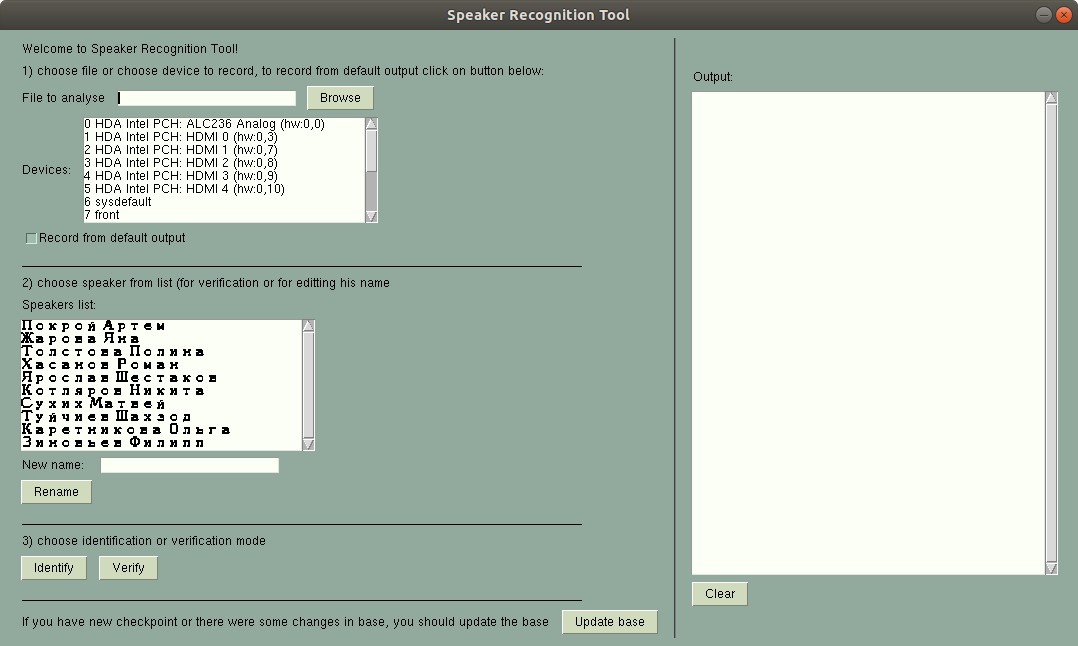
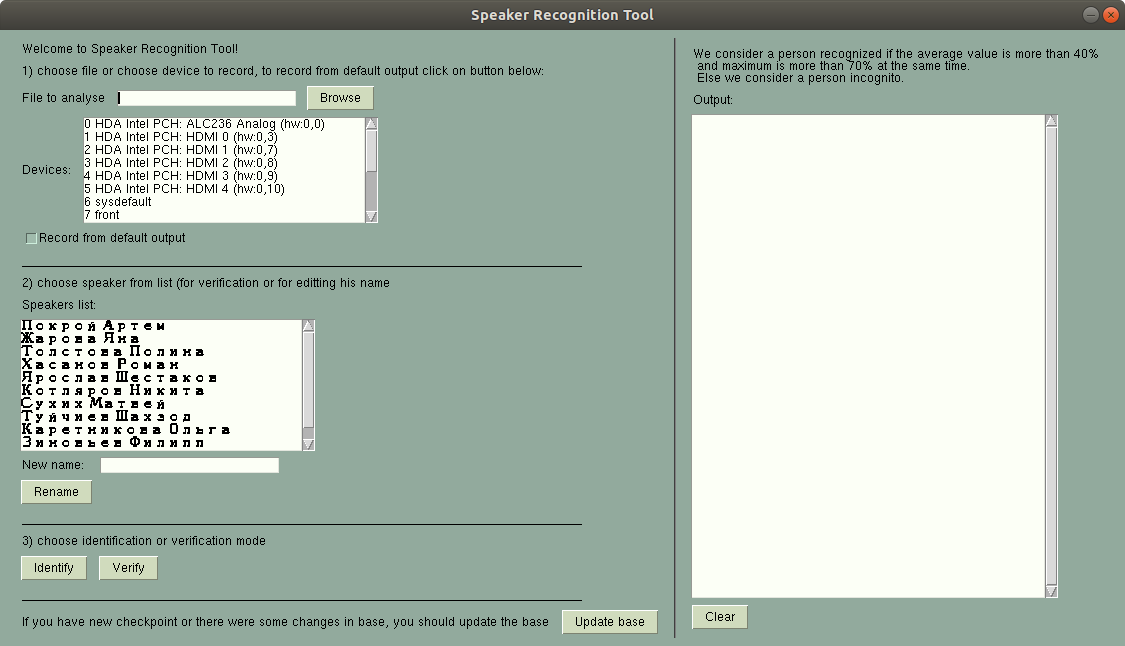
GUI

diff --git a/gui.py b/gui.py
@@ -50,6 +50,7 @@ file_list_column = [
 ]
 
 result_viewer_column = [
+    [sg.Text('We consider a person recognized if the average value is more than 40% \n and maximum is more than 70% at the same time. \n Else we consider a person incognito.')],
     [sg.Text("Output:")],
     [sg.Multiline(size=(50, 40), key="-OUTPUT-")],
     [sg.Button("Clear", key="-CLEAR-")],
@@ -69,6 +70,7 @@ window = sg.Window("Speaker Recognition Tool", layout)
 
 # Run model
 model = DeepSpeakerModel()
+#checkpoint = 'ResCNN_softmax_pre_training_checkpoint_102.h5'
 checkpoint = 'ResCNN_checkpoint_36.h5'
 model.m.load_weights(checkpoint, by_name=True)
 
@@ -141,8 +143,9 @@ while True:
     elif event == "-UPDATE-":
         sg.cprint("Running the model and making prediction for all available samples. Please, wait a few minutes...")
         make_student_prediction(model)
-        new_ids = id_list()
-        window["-ID LIST-"].update(new_ids)
+        ids = get_id_dict()
+        names = list(ids.values())
+        window["-NAMES LIST-"].update(names)
     elif event == "-CLEAR-":
         window["-OUTPUT-"].update("")
 
